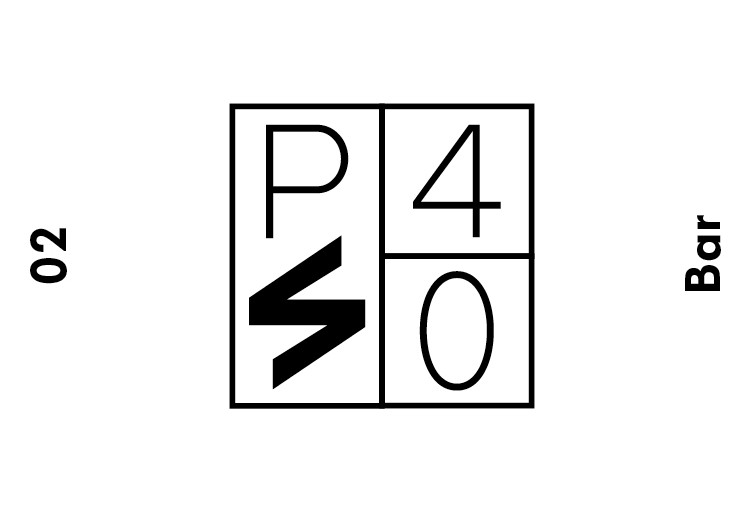
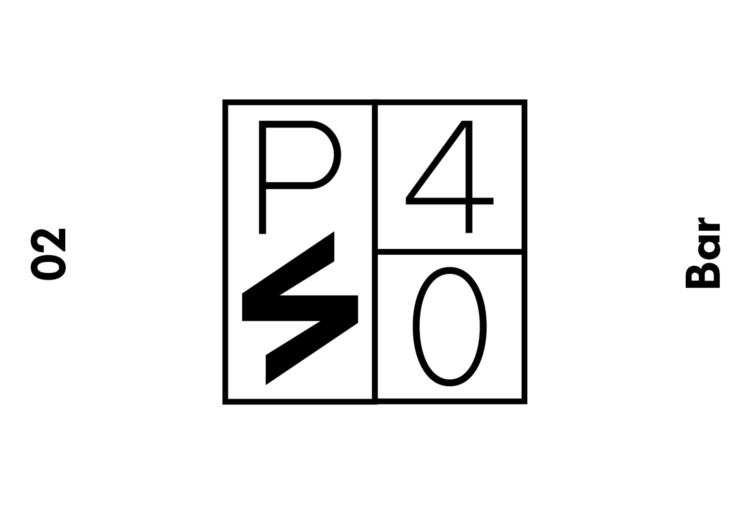
all images updated to static spec

Changed region(s): [[0.276, 0.1772, 0.736, 0.8268], [0.92, 0.4134, 0.9813, 0.5906], [0.0307, 0.4429, 0.092, 0.561]]

diff --git a/index.html b/index.html
@@ -31,9 +31,21 @@
 			<!-- ps images lhs -->
 			<div id="ps_landscape">
 				<img id="psls" 
-				onclick="pslsChange()" 
-				src="images/ps_1.gif" border="0" />
-				<script>	
+				onclick="pslsChange()" onmouseover="pslsHover()" onmouseout="pslsNormal()"
+				src="images/ps_1.jpg" border="0" />
+				<script>
+					function pslsHover() {
+						var image = document.getElementById('psls');
+						if (image.src.match("ps_1")) {
+							image.src = "images/ps_1_hover.jpg";
+						}
+					}			
+					function pslsNormal() {
+						var image = document.getElementById('psls');
+						if (image.src.match("ps_1")) {
+							image.src = "images/ps_1.jpg";
+						}
+					}		
 					function pslsChange() {
 						var image = document.getElementById('psls');
 						if (image.src.match("ps_1")) {
@@ -44,19 +56,33 @@
 							image.src = "images/ps_4.jpg";
 						} else if (image.src.match("ps_4")) {
 							image.src = "images/ps_5.jpg";
+						} else if (image.src.match("ps_5")) {
+							image.src = "images/ps_6.jpg";
 						} else {
-							image.src = "images/ps_1.gif";
+							image.src = "images/ps_1.jpg";
 						}
 					}
 				</script>		
 			</div>
 			
 			<!-- ps40 images rhs -->			
-			<div id="ps40_landscape">
+			<div id="ps40_landscape" onclick="ps40lsChange()" >
 				<img id="ps40ls"
-				onclick="ps40lsChange()"
-				src="images/ps40_1.gif" width="100%" height="100%" border="0" />
+				onclick="ps40lsChange()" onmouseover="ps40lsHover()" onmouseout="ps40lsNormal()" 
+				src="images/ps40_1.jpg" width="100%" height="100%" border="0" />
 				<script>
+					function ps40lsHover() {
+						var image = document.getElementById('ps40ls');
+						if (image.src.match("ps40_1")) {
+							image.src = "images/ps40_1_hover.jpg";
+						}
+					}			
+					function ps40lsNormal() {
+						var image = document.getElementById('ps40ls');
+						if (image.src.match("ps40_1")) {
+							image.src = "images/ps40_1.jpg";
+						}
+					}		
 					function ps40lsChange() {
 						var image = document.getElementById('ps40ls');
 						if (image.src.match("ps40_1")) {
@@ -68,10 +94,10 @@
 						} else if (image.src.match("ps40_4")) {
 							image.src = "images/ps40_5.jpg";
 						} else {
-							image.src = "images/ps40_1.gif";
+							image.src = "images/ps40_1.jpg";
 						}
-					}					
-				</script>	
+					}	
+				</script>
 			</div>
 
 			<!-- images tailored to portrait form for desktop / mobile -->
@@ -101,6 +127,14 @@
 							image.src = "images/psp_2.jpg";
 						} else if (image.src.match("psp_2")) {
 							image.src = "images/psp_3.jpg";
+						} else if (image.src.match("psp_3")) {
+							image.src = "images/psp_4.jpg";
+						} else if (image.src.match("psp_4")) {
+							image.src = "images/psp_5.jpg";
+						} else if (image.src.match("psp_5")) {
+							image.src = "images/psp_6.jpg";
+						} else if (image.src.match("psp_6")) {
+							image.src = "images/psp_7.jpg";
 						} else {
 							image.src = "images/psp_1_hover.jpg";
 						}
@@ -112,46 +146,40 @@
 			<!-- ps40 images bottom -->
 			<div id="ps40_portrait">
 
-				<!-- 
-
-				STATIC IMAGE TO BE REMOVED WHEN PS40 LIVE -->
-
-				<img id="ps40p" src="images/ps40p_1.jpg" width="100%" height="100%" border="0" />
-				
-				<!-- 
-
-				TO INCORPORATE WHEN PS40 LIVE
-
 				<img id="ps40p" 
 				onclick="ps40pChange()" onmouseover="ps40pHover()" onmouseout="ps40pNormal()" 
-				src="ps40_1.jpg" width="100%" height="100%" border="0" />
+				src="images/ps40p_1.jpg" width="100%" height="100%" border="0" />
 				<script>
 					function ps40pHover() {
 						var image = document.getElementById('ps40p');
-						if (image.src.match("ps40_1")) {
-							image.src = "ps40_1_hover.jpg";
+						if (image.src.match("ps40p_1")) {
+							image.src = "images/ps40p_1_hover.jpg";
 						}
 					}			
 					function ps40pNormal() {
 						var image = document.getElementById('ps40p');
-						if (image.src.match("ps40_1_hover")) {
-							image.src = "ps40_1.jpg";
+						if (image.src.match("ps40p_1_hover")) {
+							image.src = "images/ps40p_1.jpg";
 						}
 					}		
 					function ps40pChange() {
 						var image = document.getElementById('ps40p');
-						if (image.src.match("ps40_1")) {
-							image.src = "ps40_2.jpg";
-						} else if (image.src.match("ps40_2")) {
-							image.src = "ps40_3.jpg";
+						if (image.src.match("ps40p_1")) {
+							image.src = "images/ps40p_2.jpg";
+						} else if (image.src.match("ps40p_2")) {
+							image.src = "images/ps40p_3.jpg";
+						} else if (image.src.match("ps40p_3")) {
+							image.src = "images/ps40p_4.jpg";
+						} else if (image.src.match("ps40p_4")) {
+							image.src = "images/ps40p_5.jpg";
+						} else if (image.src.match("ps40p_5")) {
+							image.src = "images/ps40p_6.jpg";
 						} else {
-							image.src = "ps40_1_hover.jpg";
+							image.src = "images/ps40p_1_hover.jpg";
 						}
 					}					
 				</script>	
-				
-				-->
-				
+								
 			</div>		
 		</div>
 		
@@ -215,6 +243,7 @@
 					
 					// reset portrait image to start
 					ps_p.src = "images/psp_1.jpg";										
+					ps40_p.src = "images/ps40p_1.jpg";										
 								
 				} else {
 					
@@ -245,8 +274,8 @@
 					}		
 						
 					// reset landscape image to start
-					ps_ls.src = "images/ps_1.gif";
-					ps40_ls.src = "images/ps40_1.gif";
+					ps_ls.src = "images/ps_1.jpg";
+					ps40_ls.src = "images/ps40_1.jpg";
 									
 				}			
 			};

diff --git a/ps-style.css b/ps-style.css
@@ -16,7 +16,7 @@
 
 img {
 	cursor: pointer;
-	cursor: hand;
+	cursor: hand;		
 }
 
 #site_bracket img {
